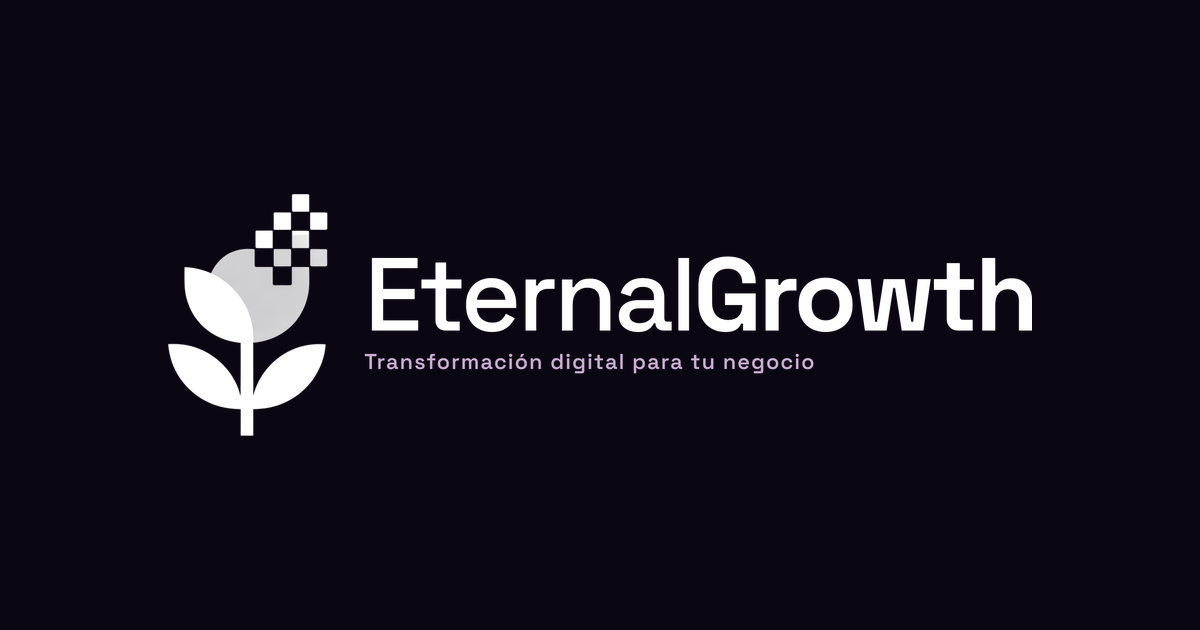
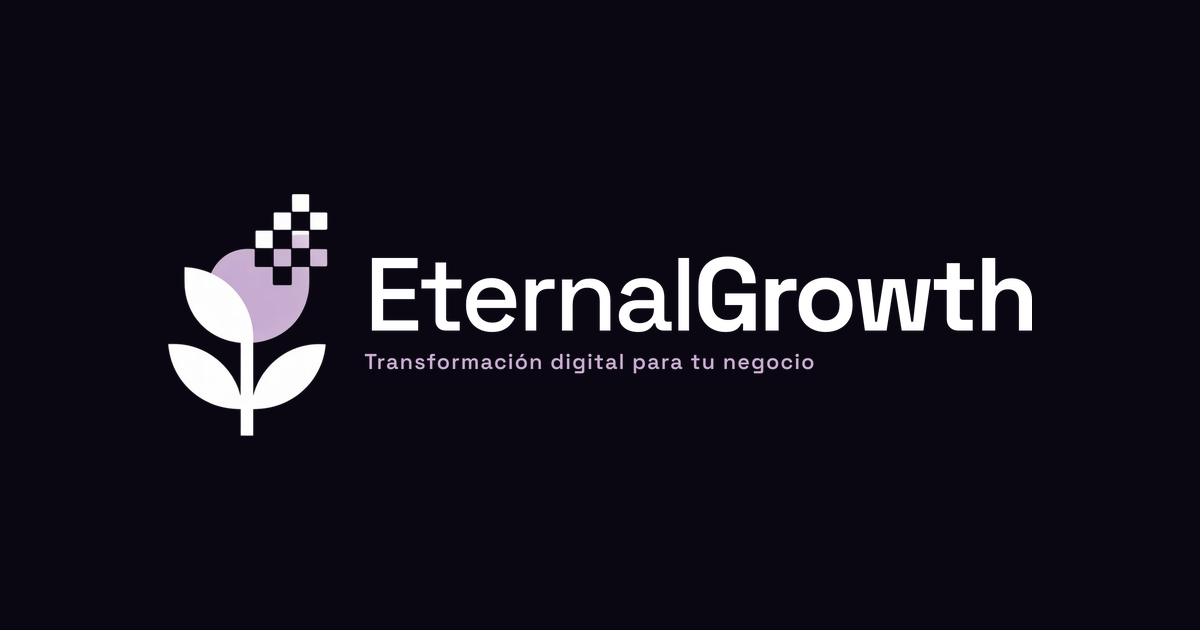
fix: arreglos de la auditoría y imagen de compartir a color
- La imagen de previsualización usa el imagotipo a color del manual de marca
  v1.1 (antes la versión en blanco).
- Tope de 5 envíos por IP cada 10 minutos en el formulario: el endpoint manda
  un correo a la dirección que le escriban, así que sin tope se podía usar para
  enviar correos con la marca de Eternal a terceros.
- Los logos pesaban 310 KB cada uno y ahora pesan 17 y 19 KB, sin pérdida
  visible: son formas planas sobre negro y estaban guardados sin comprimir.
- Los mapas de código dejan de publicarse en produccion.
- Node fijado a 22.x: con ">=18" Vercel usaba 24 y podía volver a cambiar solo.
- README real y palabras clave del package.json al día (decían 'cyberpunk').

Changed region(s): [[0.1542, 0.3619, 0.2775, 0.5429]]

diff --git a/api/contact.ts b/api/contact.ts
@@ -43,6 +43,46 @@ const escapeHtml = (value: string) =>
 const isValidLength = (value: string, maxLength: number) =>
   value.length > 0 && value.length <= maxLength;
 
+// Tope de envíos por IP. Este endpoint manda un correo a la dirección que le
+// escriban, así que sin tope alguien podría usarlo para enviar correos con la
+// marca de EternalGrowth a terceros. La cuenta vive en memoria de la función:
+// si Vercel arranca otra instancia se reinicia, pero corta de raíz el caso de
+// alguien enviando en bucle desde el mismo sitio.
+const RATE_LIMIT = { envios: 5, ventanaMs: 10 * 60 * 1000 };
+const enviosPorIp = new Map<string, number[]>();
+
+const getClientIp = (request: VercelRequest) => {
+  const forwarded = request.headers["x-forwarded-for"];
+  const raw = Array.isArray(forwarded) ? forwarded[0] : forwarded;
+  return raw?.split(",")[0]?.trim() || "desconocida";
+};
+
+const superaElTope = (ip: string) => {
+  const ahora = Date.now();
+  const recientes = (enviosPorIp.get(ip) ?? []).filter(
+    (momento) => ahora - momento < RATE_LIMIT.ventanaMs,
+  );
+
+  if (recientes.length >= RATE_LIMIT.envios) {
+    enviosPorIp.set(ip, recientes);
+    return true;
+  }
+
+  recientes.push(ahora);
+  enviosPorIp.set(ip, recientes);
+
+  // Limpieza para que el mapa no crezca sin control.
+  if (enviosPorIp.size > 500) {
+    for (const [clave, momentos] of enviosPorIp) {
+      if (momentos.every((momento) => ahora - momento >= RATE_LIMIT.ventanaMs)) {
+        enviosPorIp.delete(clave);
+      }
+    }
+  }
+
+  return false;
+};
+
 
 export default async function handler(
   request: VercelRequest,
@@ -55,6 +95,13 @@ export default async function handler(
 
   if (!process.env.RESEND_API_KEY) {
     response.status(500).json({ error: "Falta RESEND_API_KEY" });
+    return;
+  }
+
+  if (superaElTope(getClientIp(request))) {
+    response
+      .status(429)
+      .json({ error: "Demasiados envios. Intenta de nuevo en unos minutos." });
     return;
   }
 

diff --git a/vite.config.ts b/vite.config.ts
@@ -10,6 +10,7 @@ export default defineConfig({
   },
   build: {
     outDir: 'dist',
-    sourcemap: true
+    // Sin mapas de código en producción: publicaban el código fuente original.
+    sourcemap: false
   }
 })

diff --git a/README.md b/README.md
@@ -1,227 +1,55 @@
-# 🌟 EternalGrowth Landing Page
+# Web de EternalGrowth
 
-<div align="center">
-  <img src="./src/assets/logo.jpeg" alt="EternalGrowth Logo" width="200"/>
-  
-  **Una landing page cyberpunk con efectos CRT y animaciones futuristas**
-  
-  [![React](https://img.shields.io/badge/React-19.1.1-61DAFB?style=for-the-badge&logo=react)](https://reactjs.org/)
-  [![TypeScript](https://img.shields.io/badge/TypeScript-5.9.2-3178C6?style=for-the-badge&logo=typescript)](https://www.typescriptlang.org/)
-  [![Vite](https://img.shields.io/badge/Vite-7.1.3-646CFF?style=for-the-badge&logo=vite)](https://vitejs.dev/)
-  [![License](https://img.shields.io/badge/License-ISC-green?style=for-the-badge)](./LICENSE)
-</div>
+La web pública de EternalGrowth, agencia de software y transformación digital de Medellín.
 
----
+- **Producción:** https://www.eternalgrowth.xyz
+- **Stack:** React 19 + TypeScript + Vite 7, desplegado en Vercel.
+- **Correos:** Resend (`api/contact.ts` para el formulario, `api/send-news.ts` para el boletín).
 
-## 📖 Descripción
+## Páginas
 
-EternalGrowth es una landing page moderna con estética cyberpunk que presenta:
+| Ruta | Qué es |
+|---|---|
+| `/` | Inicio: hero, por qué elegirnos, servicios y formulario de contacto |
+| `/blog` | Sin filtro digital: noticias de tecnología e IA para pymes |
+| `/blog/<slug>` | Cada artículo |
+| `/eternalgrowth` | Nuestra historia |
 
-- 🎨 **Diseño futurista** con efectos CRT auténticos
-- ⚡ **Animaciones fluidas** y transiciones suaves
-- 📱 **Diseño responsive** para todos los dispositivos
-- 🖥 **Efectos de monitor retro** (scanlines, glitch, glow)
-- ⌨ **Efecto typewriter** con frases dinámicas
-- 🌈 **Colores cyberpunk** con paleta púrpura neón
-
-## ✨ Características
-
-### 🎯 Efectos Visuales
-
-- **Scanlines animadas** que simulan monitores CRT
-- **Horizontal sweep** con efectos de barrido
-- **Capa de ruido** para textura auténtica
-- **Glow effects** con resplandor neón
-- **Glitch effects** en el logo principal
-- **Animación de pulsación** en el logo de fondo
-
-### 🔧 Características Técnicas
-
-- **Hooks personalizados** para typewriter y glitch effects
-- **Configuración modular** de frases
-- **CSS animations** optimizadas
-- **TypeScript** para type safety
-- **Componentes reutilizables**
-
-### 🖼 Modo Wallpaper
-
-- **Versión sin texto** para usar como fondo de pantalla
-- **HTML estático** independiente incluido
-- **Optimizado** para diferentes resoluciones
-
-## 🚀 Instalación y Uso
-
-### Prerequisitos
-
-- Node.js >= 18
-- npm o yarn
-
-### Instalación
+## Desarrollo
 
 ```bash
-# Clonar el repositorio
-git clone https://github.com/daniellelooo/landingpage-eternalgrowth.git
-
-# Navegar al directorio
-cd PrototipoLandingPage
-
-# Instalar dependencias
 npm install
-
-# Iniciar servidor de desarrollo
 npm run dev
 ```
 
-### Scripts Disponibles
+| Comando | Qué hace |
+|---|---|
+| `npm run dev` | Servidor de desarrollo en el puerto 3000 |
+| `npm run build` | Build + genera el HTML de cada página, el 404 y el sitemap |
+| `npm run preview` | Sirve el resultado del build |
+| `npm run lint` | Comprueba los tipos (es lo mismo que corre el CI) |
 
-```bash
-# Desarrollo
-npm run dev          # Inicia servidor en http://localhost:3000
+## Antes de tocar nada
 
-# Producción
-npm run build        # Construye para producción
-npm run preview      # Previsualiza build de producción
+**Lee `docs/SEO.md`.** El build genera un HTML real por página; si se agrega una página sin
+registrarla ahí, funciona al navegar pero responde 404 al entrar directo y no existe para
+Google. Ese archivo explica también cómo publicar un artículo del blog y cómo verificar un
+despliegue.
 
-# Calidad de código
-npm run lint         # Verifica tipos TypeScript
-```
+## Variables de entorno
 
-## 🎮 Modos de Uso
+Se configuran en Vercel. Ninguna es necesaria para `npm run dev` salvo que se prueben correos.
 
-### 1. Landing Page Completa
+| Variable | Para qué |
+|---|---|
+| `RESEND_API_KEY` | Enviar correos |
+| `RESEND_FROM_EMAIL` | Remitente. Debe ser de un dominio verificado en Resend |
+| `CONTACT_TO_EMAIL` | Dónde llegan los mensajes del formulario |
+| `RESEND_AUDIENCE_ID` | Lista de suscriptores del boletín |
+| `SITE_URL` | Enlaces dentro de los correos. Si falta, se usa el dominio de producción |
+| `ADMIN_SECRET` | Cabecera `x-admin-secret` para poder enviar el boletín |
 
-```
-http://localhost:3000/
-```
+## Ramas
 
-Muestra la página completa con logo, texto typewriter y todos los efectos.
-
-### 2. Modo Wallpaper
-
-```
-http://localhost:3000/?mode=wallpaper
-```
-
-Solo muestra el fondo con efectos, sin texto - perfecto para wallpapers.
-
-### 3. HTML Estático
-
-```
-wallpaper.html
-```
-
-Archivo independiente que puedes abrir directamente en cualquier navegador.
-
-## 📁 Estructura del Proyecto
-
-```
-PrototipoLandingPage/
-├── 📄 index.html              # HTML principal
-├── 📄 wallpaper.html          # Versión wallpaper estática
-├── 📄 package.json            # Dependencias y scripts
-├── 📄 vite.config.ts          # Configuración Vite
-├── 📄 tsconfig.json           # Configuración TypeScript
-└── src/
-    ├── 📄 App.tsx             # Componente principal con routing
-    ├── 📄 main.tsx            # Punto de entrada
-    ├── 📄 index.css           # Estilos globales
-    ├── assets/
-    │   └── 🖼 logo.jpeg       # Logo de EternalGrowth
-    ├── components/
-    │   ├── 📄 EternalGrowthLanding.tsx    # Landing principal
-    │   ├── 📄 EternalGrowthLanding.css    # Estilos principales
-    │   ├── 📄 WallpaperBackground.tsx     # Componente wallpaper
-    │   └── 📄 WallpaperBackground.css     # Estilos wallpaper
-    ├── config/
-    │   └── 📄 phrases.ts      # Frases del typewriter
-    └── hooks/
-        ├── 📄 useTypewriter.ts    # Hook para efecto typewriter
-        └── 📄 useGlitchEffect.ts  # Hook para efecto glitch
-```
-
-## 🎨 Personalización
-
-### Modificar Frases del Typewriter
-
-Edita el archivo `src/config/phrases.ts`:
-
-```typescript
-export const TYPEWRITER_PHRASES = [
-  "Tu nueva frase aquí...",
-  "Otra frase creativa...",
-  // Añade más frases
-];
-```
-
-### Ajustar Colores
-
-Los colores principales están en variables CSS:
-
-- Púrpura primario: `#8B5CF6`
-- Púrpura claro: `#C084FC`
-- Negro: `#000`
-
-### Modificar Velocidad de Animaciones
-
-Ajusta los tiempos en los keyframes CSS:
-
-- Scanlines: `0.1s`
-- Horizontal sweep: `3s`
-- Typewriter: Configurable en el hook
-
-## 🛠 Tecnologías Utilizadas
-
-- **React 19.1.1** - Biblioteca de UI
-- **TypeScript 5.9.2** - Type safety
-- **Vite 7.1.3** - Build tool y dev server
-- **CSS3** - Animaciones y efectos
-- **SVG** - Efectos de ruido
-
-## 📱 Responsividad
-
-El diseño se adapta a:
-
-- 📱 **Móviles** (320px+)
-- 📟 **Tablets** (768px+)
-- 💻 **Desktop** (1024px+)
-- 🖥 **Pantallas grandes** (1920px+)
-- 📺 **Ultra-wide** (21:9+)
-
-## 🎯 Casos de Uso
-
-### Para Desarrolladores
-
-- Landing page de proyectos tech
-- Portfolio con estética cyberpunk
-- Páginas de "Coming Soon"
-
-### Para Wallpapers
-
-- Fondo de pantalla animado
-- Screensaver personalizado
-- Ambiente de trabajo futurista
-
-## 🤝 Contribuir
-
-1. Fork el proyecto
-2. Crea una branch para tu feature (`git checkout -b feature/AmazingFeature`)
-3. Commit tus cambios (`git commit -m 'Add some AmazingFeature'`)
-4. Push a la branch (`git push origin feature/AmazingFeature`)
-5. Abre un Pull Request
-
-## 📝 Licencia
-
-Este proyecto está bajo la Licencia ISC. Ver `LICENSE` para más detalles.
-
-## 🙏 Agradecimientos
-
-- Inspirado en la estética cyberpunk y retro-futurismo
-- Efectos CRT basados en monitores vintage
-- Paleta de colores inspirada en temas cyberpunk
-
----
-
-<div align="center">
-  <p>Hecho con ❤ para el futuro</p>
-  <p><strong>EternalGrowth</strong> - Donde la tecnología encuentra el arte</p>
-</div>
+Se trabaja en `develop`. `main` es producción y se actualiza por promoción desde `develop`.
+Los rediseños van en ramas `diseno/*`.
